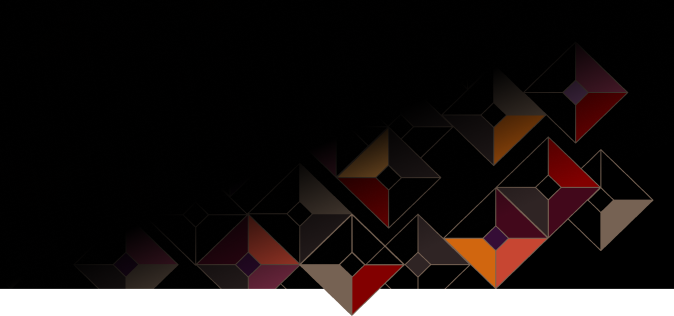
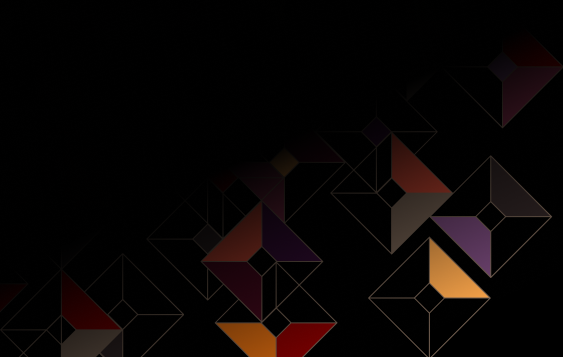
sul23-115 - fixed mobile sprinkles.

Changed region(s): [[0.0, 0.1709, 1.0, 1.0]]

diff --git a/app/(public)/components/patterns/horizontal-card.tsx b/app/(public)/components/patterns/horizontal-card.tsx
@@ -24,10 +24,9 @@ interface CardProps {
 }
 
 const HorizontalCard = ({video, image, superHeader, header, footer, body, link, linkStyle, backgroundSprinkles, ...props}: CardProps) => {
-  console.log(backgroundSprinkles)
   return (
     <div {...props}
-         className={`card su-block su-w-full su-relative su-basefont-23 su-leading-display su-bg-black-true su-text-white su-border su-border-solid su-border-black-10 su-shadow-md su-flex su-mt-[9rem] md:su-p-20 su-p-50 su-pt-80 su-flex-wrap ${props.className ?? ''}
+         className={`card su-block su-w-full su-relative su-basefont-23 su-leading-display su-bg-black-true su-text-white su-border su-border-solid su-border-black-10 su-shadow-md su-flex su-mt-[9rem] md:su-px-80 md:su-pb-80 md:su-pt-120 su-p-40 su-flex-wrap ${props.className ?? ''}
          `}>
 
       {(backgroundSprinkles == 'top_right') &&
@@ -38,7 +37,7 @@ const HorizontalCard = ({video, image, superHeader, header, footer, body, link, 
         <TopLeftSprinkles></TopLeftSprinkles>
       }
 
-      <div className={"su-w-full md:su-w-1/2 md:su-mt-0 su-mt-[-14rem]"}>
+      <div className={"su-w-full md:su-w-1/2 md:su-mt-0 su-mt-[-14rem] su-z-10"}>
         <Conditional showWhen={image}>
           <div className="su-overflow-hidden su-aspect-[16/9] su-relative" aria-hidden="true">
             {image}
@@ -52,7 +51,7 @@ const HorizontalCard = ({video, image, superHeader, header, footer, body, link, 
         </Conditional>
       </div>
 
-      <div className="card-body su-items-start md:su-rs-px-2 su-rs-pt-2 su-rs-pb-4 su-w-full md:su-w-1/2 su-pb-32 su-pb-64">
+      <div className="card-body su-items-start md:su-rs-px-2 su-rs-pt-2 su-rs-pb-4 su-w-full md:su-w-1/2 su-pb-32 su-pb-64 su-z-10">
         <Conditional showWhen={superHeader}>
           <span className="su-type-0 su-mb-0 su-leading-display su-font-bold su-underline">{superHeader}</span>
         </Conditional>

diff --git a/app/(public)/components/patterns/card-sprinkles.tsx b/app/(public)/components/patterns/card-sprinkles.tsx
@@ -1,6 +1,6 @@
 export const TopRightSprinkles = (props) => {
   return (
-    <div className={ `su-w-1/3 su-h-1/3 su-absolute su-top-[-26px] su-right-0 su-bg-no-repeat su-bg-card-top-right-sprinkles` }>
+    <div className={ `su-w-2/3 su-h-2/3 su-absolute su-top-[-26px] su-right-0 su-bg-no-repeat su-bg-card-top-right-sprinkles` }>
 
     </div>
   )
@@ -8,7 +8,7 @@ export const TopRightSprinkles = (props) => {
 
 export const TopLeftSprinkles = (props) => {
   return (
-    <div className={ `su-w-1/3 su-h-1/3 su-absolute su-top-[-26px] su-left-0 su-bg-no-repeat su-bg-card-top-left-sprinkles` }>
+    <div className={ `su-w-2/3 su-h-2/3 su-absolute su-top-[-26px] su-left-0 su-bg-no-repeat su-bg-card-top-left-sprinkles` }>
 
     </div>
   )
@@ -16,7 +16,7 @@ export const TopLeftSprinkles = (props) => {
 
 export const BottomLeftSprinkles = (props) => {
   return (
-    <div className={ `su-w-1/3 su-h-1/3 su-absolute su-bottom-[26px] su-left-0 su-bg-no-repeat su-bg-card-bottom-left-sprinkles` }>
+    <div className={ `md:su-w-[563px] sm:su-w-[335px] su-w-[235px] su-h-[333px] su-absolute su-bottom-0 su-left-0 su-bg-no-repeat su-bg-card-bottom-left-sprinkles su-bg-contain su-bg-bottom` }>
 
     </div>
   )
@@ -24,7 +24,7 @@ export const BottomLeftSprinkles = (props) => {
 
 export const BottomRightSprinkles = (props) => {
   return (
-    <div className={ `su-w-1/3 su-h-1/3 su-absolute su-bottom-[26px] su-right-0 su-bg-no-repeat su-bg-card-bottom-right-sprinkles` }>
+    <div className={ `md:su-w-[563px] sm:su-w-[335px] su-w-[235px] su-h-[333px] su-absolute su-bottom-0 su-right-0 su-bg-no-repeat su-bg-card-bottom-right-sprinkles su-bg-contain su-bg-bottom` }>
 
     </div>
   )

diff --git a/tailwind.config.js b/tailwind.config.js
@@ -32,8 +32,8 @@ module.exports = {
         "home-banner-sprinkles": "url('/home-banner-sprinkles.png')",
         "card-bottom-right-sprinkles": "url('/sprinkles/sprinkles-bottom-right-horizontal-card.png')",
         "card-bottom-left-sprinkles": "url('/sprinkles/sprinkles-bottom-left-horizontal-card.png')",
-        "card-top-right-sprinkles": "url('/sprinkles/sprinkles-top-left-horizontal-card.png')",
-        "card-top-left-sprinkles": "url('/sprinkles/sprinkles-top-right-horizontal-card.png')"
+        "card-top-right-sprinkles": "url('/sprinkles/sprinkles-top-right-horizontal-card.png')",
+        "card-top-left-sprinkles": "url('/sprinkles/sprinkles-top-left-horizontal-card.png')"
       },
       keyframes: {
         "slide-up": {
